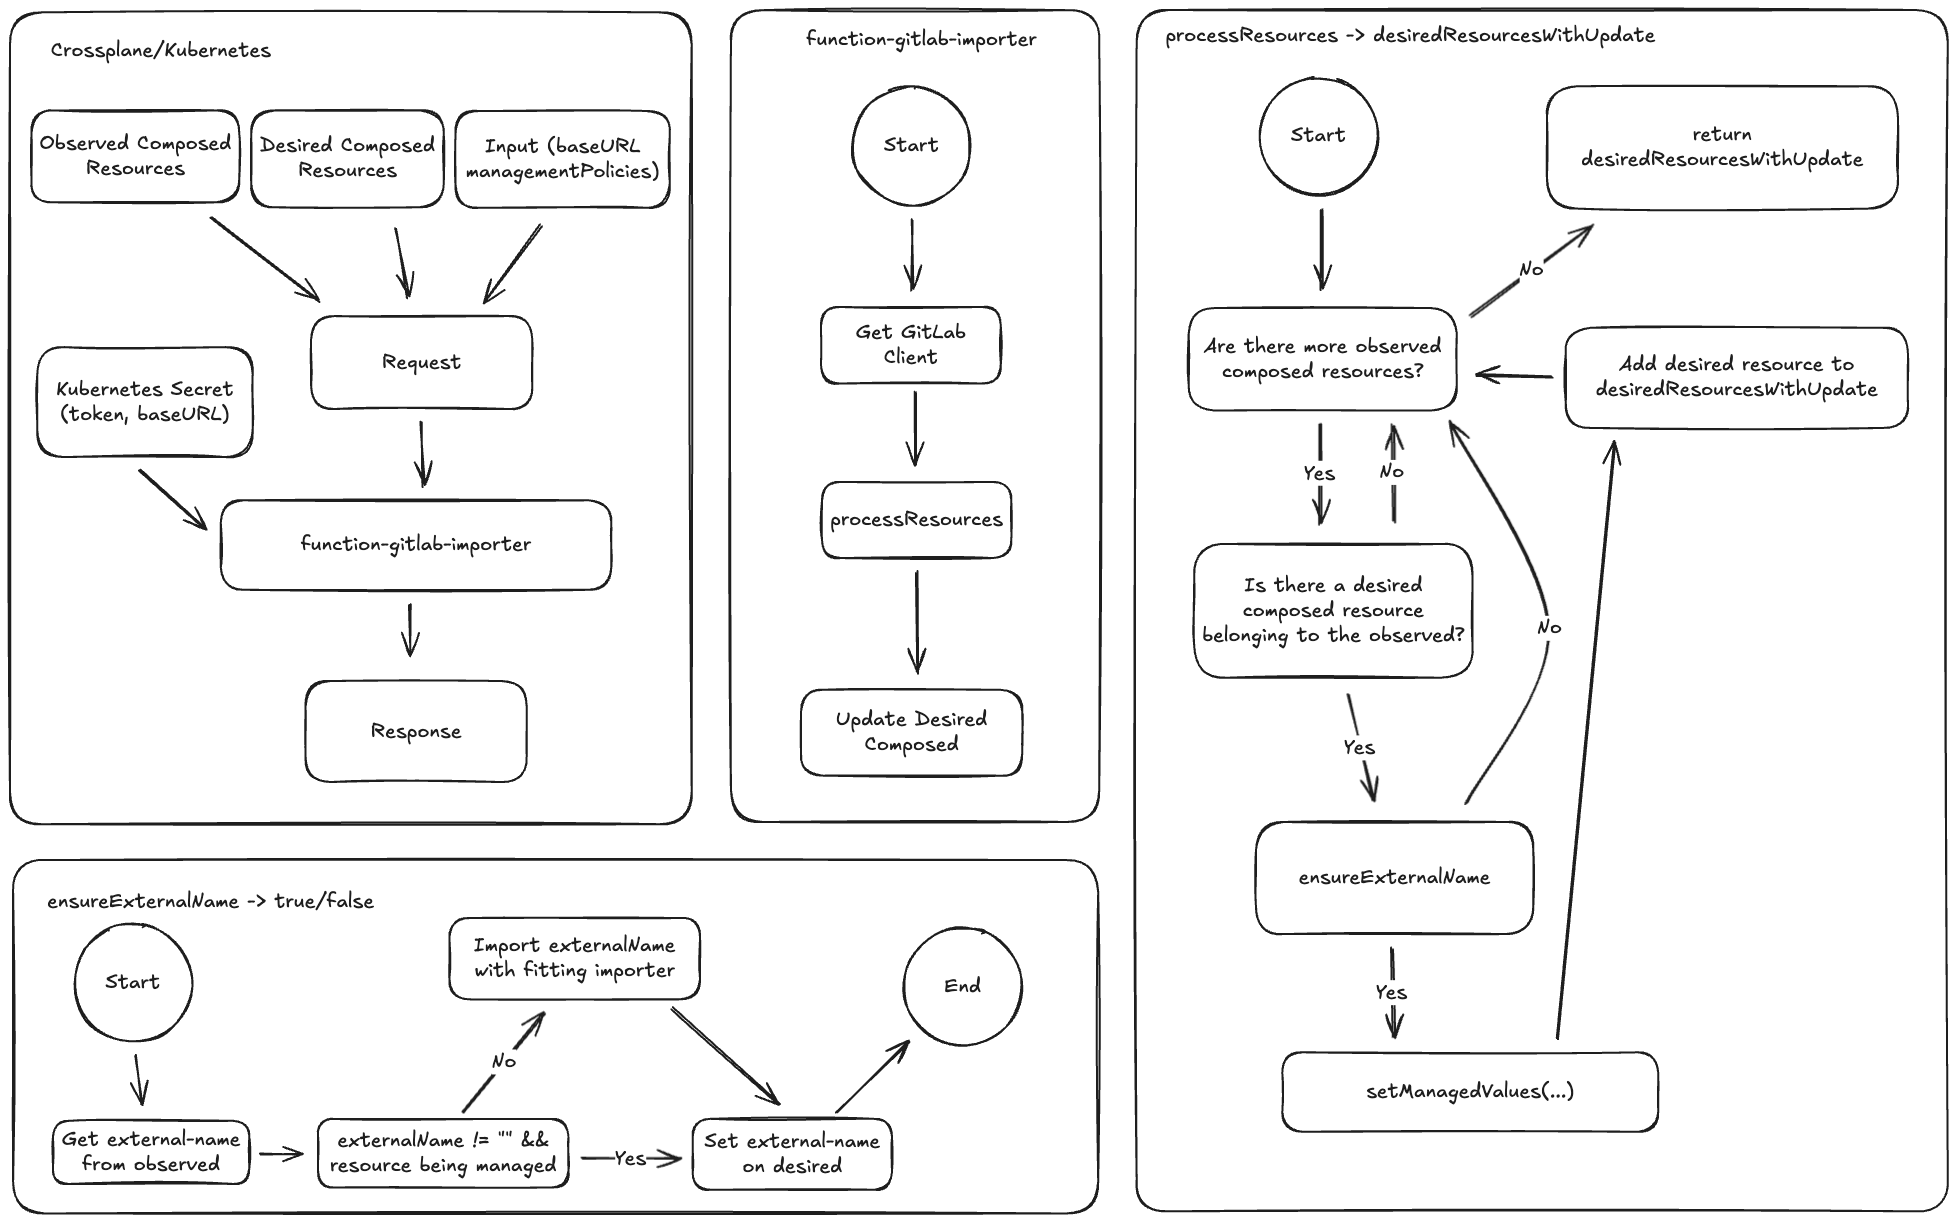
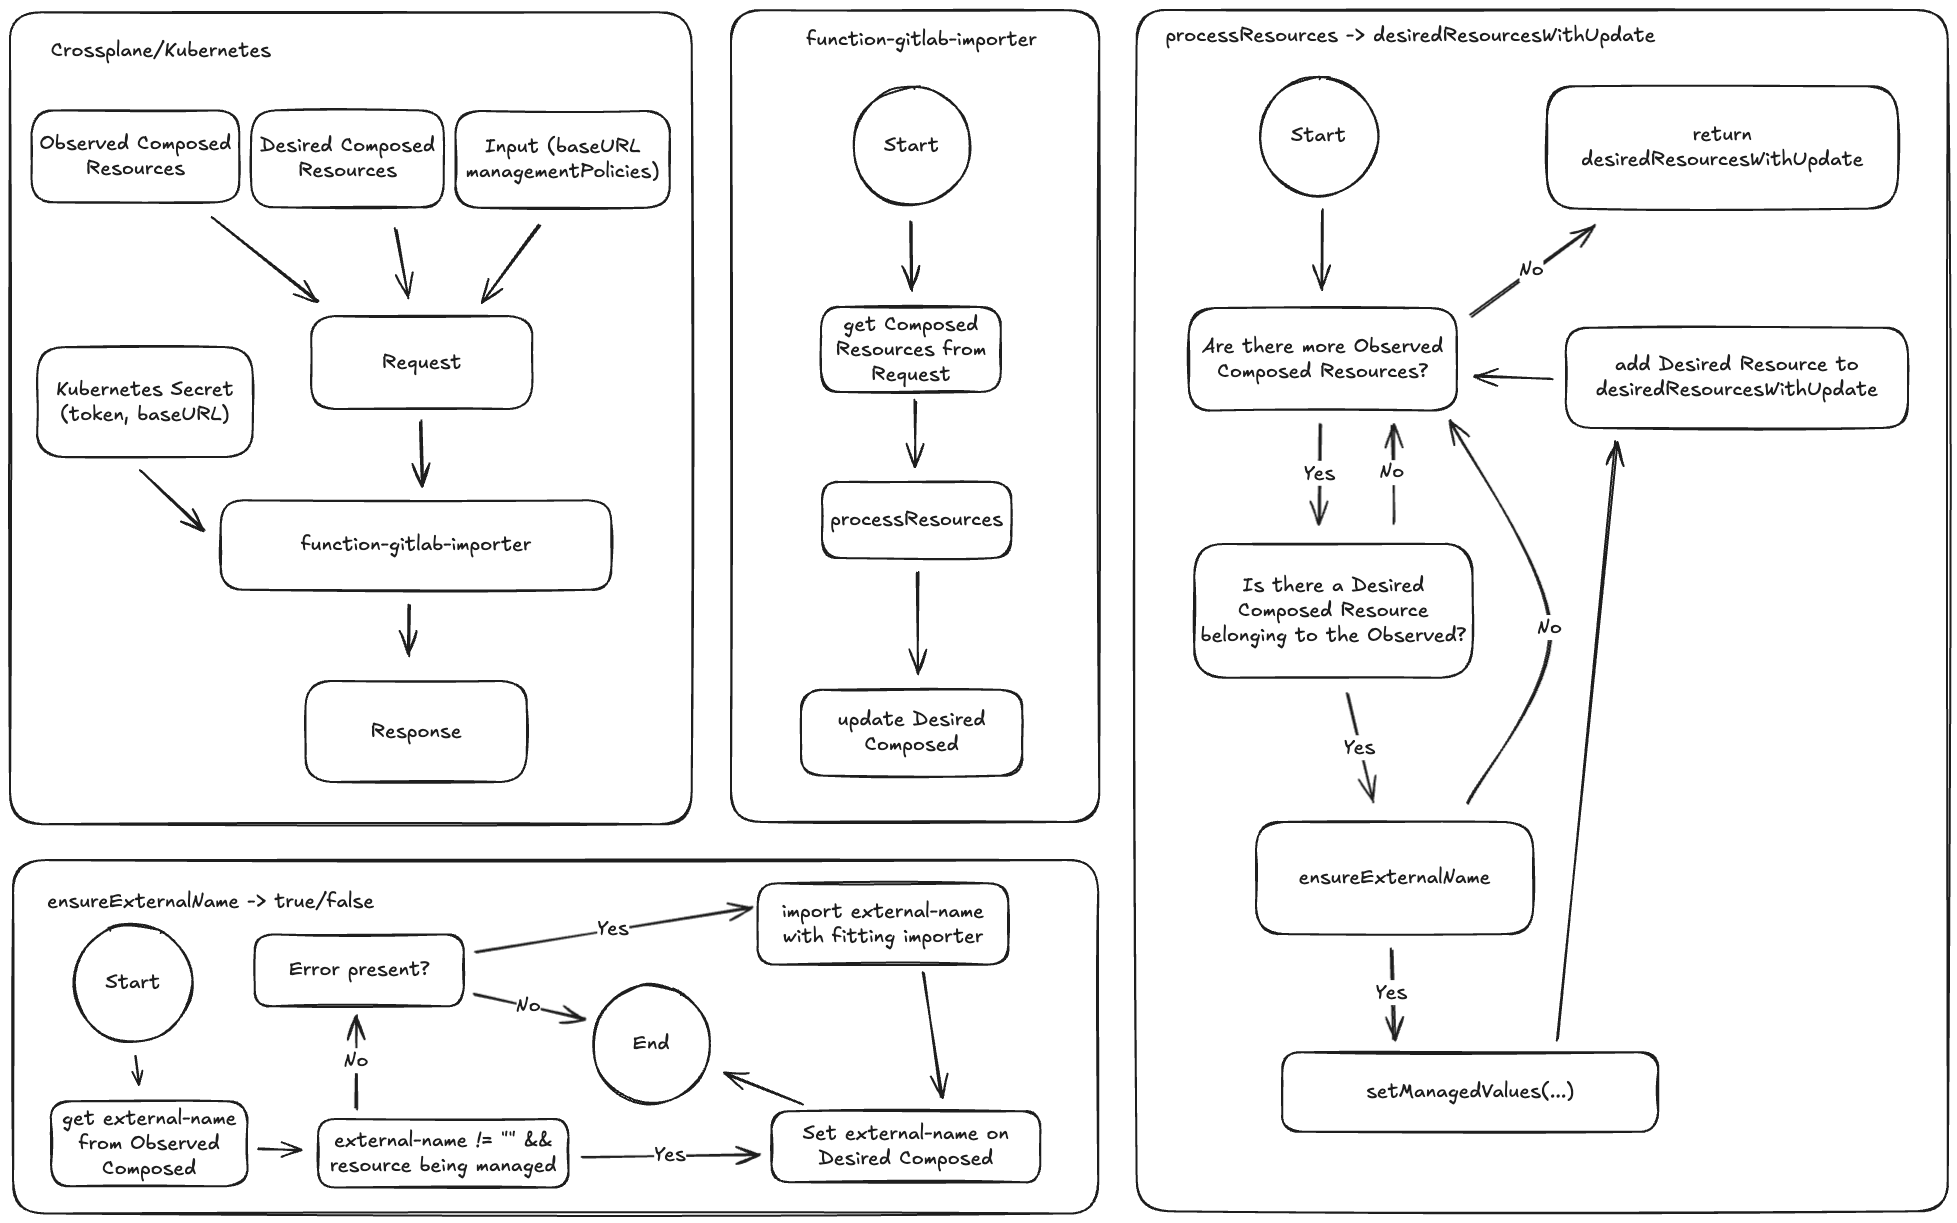
update comments, architecture diagram and externalNameAnnotationString
on-behalf-of: Deloitte

diff --git a/fn.go b/fn.go
@@ -134,7 +134,7 @@ func (f *Function) ensureExternalName(name resource.Name, obs resource.ObservedC
 	log := f.log.WithValues("name", name, "GKV", obsGKV)
 	// Test if external-name already present on observed and if resource need management.
 	externalName := internal.GetExternalNameFromObserved(obs)
-	externalNameAnnotationString := "crossplane.io/managed-external-name"
+	externalNameAnnotationString := "function-gitlab-importer/managed-external-name"
 	managed, err := internal.GetBoolAnnotation(obs, externalNameAnnotationString)
 	if err != nil {
 		log.Debug("cannot get annotation", "external-name annotation string", externalNameAnnotationString, "err", err)
@@ -152,24 +152,9 @@ func (f *Function) ensureExternalName(name resource.Name, obs resource.ObservedC
 	}
 
 	// If external-name not present try to import it using a fitting importer implementation.
-<<<<<<< HEAD
-	obsGroup := obs.Resource.GetObjectKind().GroupVersionKind().Group
-	var resourceImporter importer.Importer
-	var handler handler.Handler
-	switch obsGroup {
-	case "projects.gitlab.crossplane.io":
-		handler = &gitlabhandler.ProjectHandler{}
-		resourceImporter = &gitlabimporter.ProjectImporter{}
-	case "groups.gitlab.crossplane.io":
-		handler = &gitlabhandler.GroupHandler{}
-		resourceImporter = &gitlabimporter.GroupImporter{}
-	default:
-		return errors.Errorf("group does not have an importer: %s", obsGroup)
-=======
 	impl, ok := gvkimplementation.LookupByGKV(obsGKV)
 	if !ok {
 		return nil
->>>>>>> 1440fa7 (cleanup handling of resource specific implementations)
 	}
 
 	msg, exists := impl.Handler.CheckResourceExists(obs)

diff --git a/internal/internal.go b/internal/internal.go
@@ -97,7 +97,9 @@ func SetBoolAnnotation(des *resource.DesiredComposed, key string, value bool) {
 
 // GetBoolAnnotation retrieves a boolean value from annotations of observed composed resource.
 // It expects the annotation values which are supported by strconv.ParseBool accepts.
-// Returns (value, nil) if the annotation exists and is valid, otherwise (false, error).
+// - Returns (false, error) if either annotations cannot be found or the value cannot be parsed.
+// - Returns (value, nil) if the annotation exists and can be converted to boolean type.
+// - Returns (false, nil) if the annotation does not exist.
 func GetBoolAnnotation(obs resource.ObservedComposed, key string) (bool, error) {
 	annotations := obs.Resource.GetAnnotations()
 	if annotations == nil {
@@ -123,7 +125,7 @@ func GetBoolAnnotation(obs resource.ObservedComposed, key string) (bool, error) 
 // to either observe-only by default or set additional policies provided as input.
 func SetManagedValues(des *resource.DesiredComposed, in *v1beta1.Input) error {
 	// Mark resource to have its external-name managed.
-	SetBoolAnnotation(des, "crossplane.io/managed-external-name", true)
+	SetBoolAnnotation(des, "function-gitlab-importer/managed-external-name", true)
 
 	// Configure managementPolicies
 	managementPolicies := []string{"Observe"}
